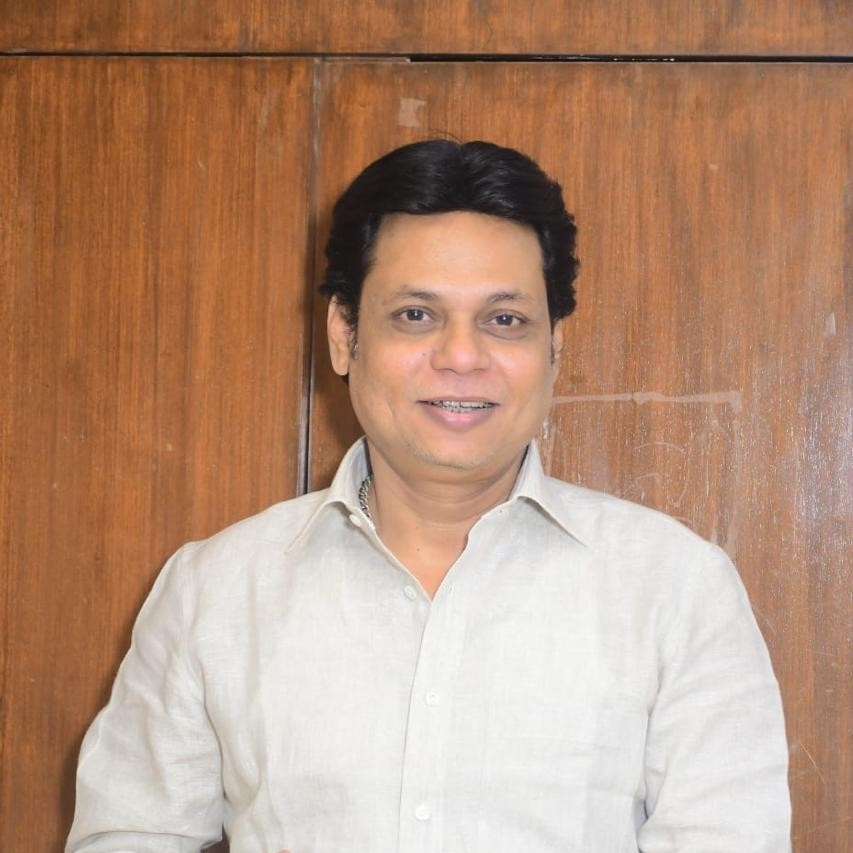
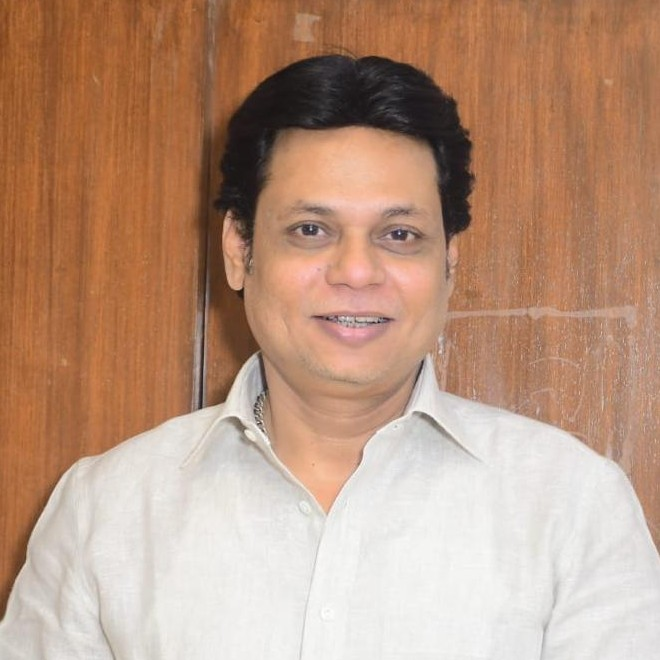
Update The Purpose of Wow title, format to Animated Feature Film, update stills, and zoom Iftekhar Amrohi team portrait

diff --git a/src/data/projects.ts b/src/data/projects.ts
@@ -36,9 +36,9 @@ import tooLateToLoveMeImg from "../../Stills For AI Projects/Too Late to Love Me
 // Narrative Shows: Contract Marriage
 import contractMarriageImg from "../../Stills For AI Projects/Contract Marriage/Contract Marriage.png";
 
-// Feature Films: Purpose of Wow
-import purposeOfWowImg from "../../Stills For AI Projects/Purpose of Wow/purpose-of-wow-portrait.jpg";
-import purposeOfWowLandscape from "../../Stills For AI Projects/purpose of wow.jpeg";
+// Feature Films: The Purpose of Wow
+import purposeOfWowPortrait from "../../Stills For AI Projects/Purpose of Wow/the-purpose-of-wow-portrait.jpg";
+import purposeOfWowTitleCard from "../../Stills For AI Projects/Purpose of Wow/The Purpose of Wow Title Card.png";
 
 // Ad Films: AI commercial still
 import adShowImg from "../../Stills For AI Projects/Ad Shows/ad-show-still.jpg";
@@ -248,20 +248,20 @@ export const projects: Project[] = [
 
   // --- Feature Films ---
   {
-    id: "purpose-of-wow",
-    title: "Purpose of Wow",
+    id: "the-purpose-of-wow",
+    title: "The Purpose of Wow",
     client: "In-House Production",
     category: "Feature Films",
     enabled: true,
-    format: "Cinematic Feature Film",
+    format: "Animated Feature Film",
     year: "2024",
     genre: "Cinematic / Drama",
     direction: "Smiley Films",
     synopsis:
-      "A breathtaking cinematic journey tracing the pursuit of wonder, human passion, and extraordinary life moments that reveal true purpose on the grand canvas.",
+      "A breathtaking animated cinematic journey tracing the pursuit of wonder, human passion, and extraordinary life moments that reveal true purpose on the grand canvas.",
     stills: [
-      { src: purposeOfWowImg, alt: "Purpose of Wow portrait still" },
-      { src: purposeOfWowLandscape, alt: "Purpose of Wow title still" },
+      { src: purposeOfWowPortrait, alt: "The Purpose of Wow still" },
+      { src: purposeOfWowTitleCard, alt: "The Purpose of Wow title still" },
     ],
   },
 

diff --git a/next.config.ts b/next.config.ts
@@ -27,6 +27,11 @@ const nextConfig: NextConfig = {
       { source: "/media/press", destination: "/press", permanent: false },
       { source: "/media", destination: "/#press", permanent: false },
       { source: "/ai-studio", destination: "/#ai-studio", permanent: false },
+      {
+        source: "/ai-studio/purpose-of-wow",
+        destination: "/ai-studio/the-purpose-of-wow",
+        permanent: false,
+      },
       { source: "/ai-work", destination: "/#ai-studio", permanent: false },
       { source: "/ai-project", destination: "/#ai-studio", permanent: false },
     ];
